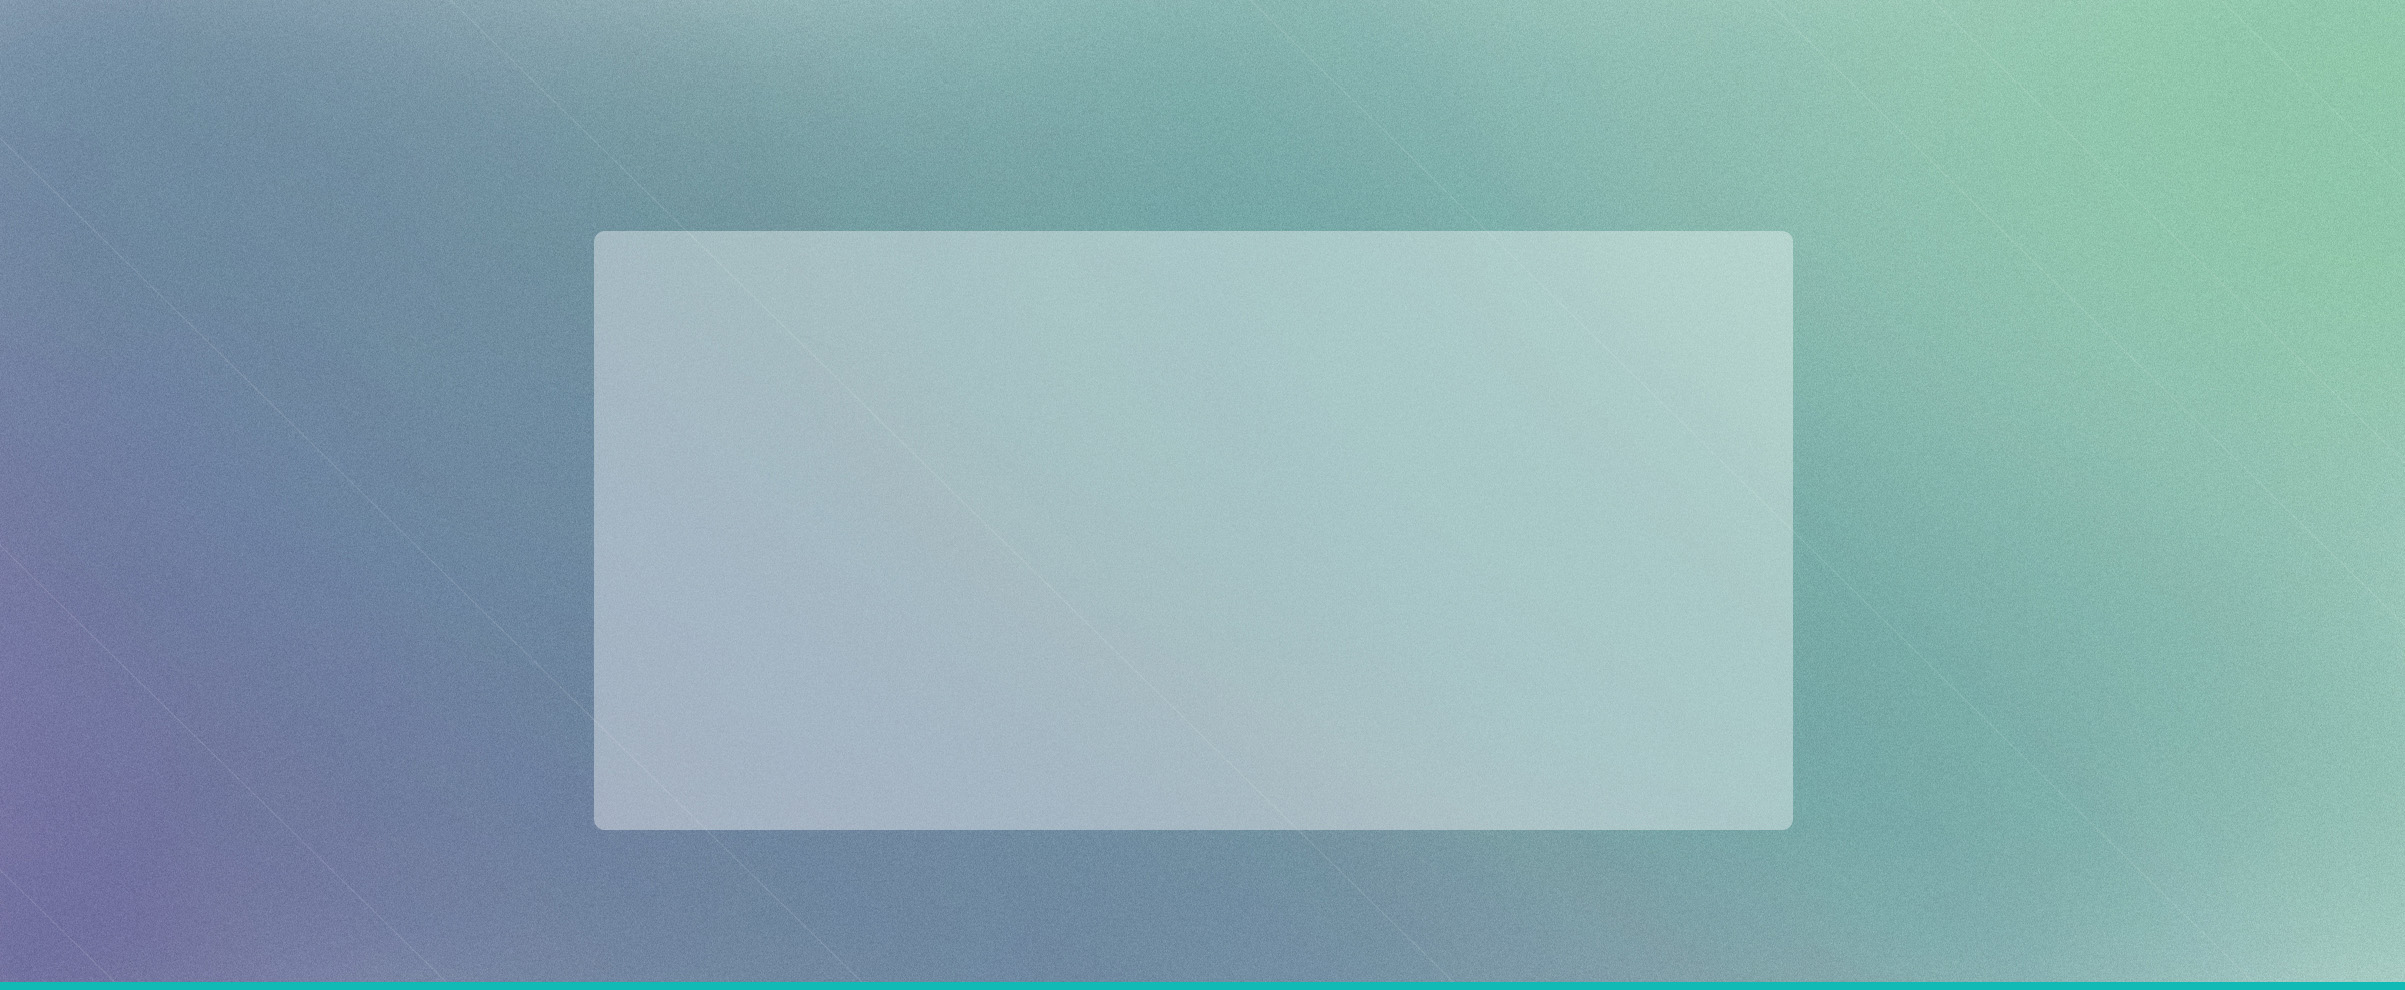
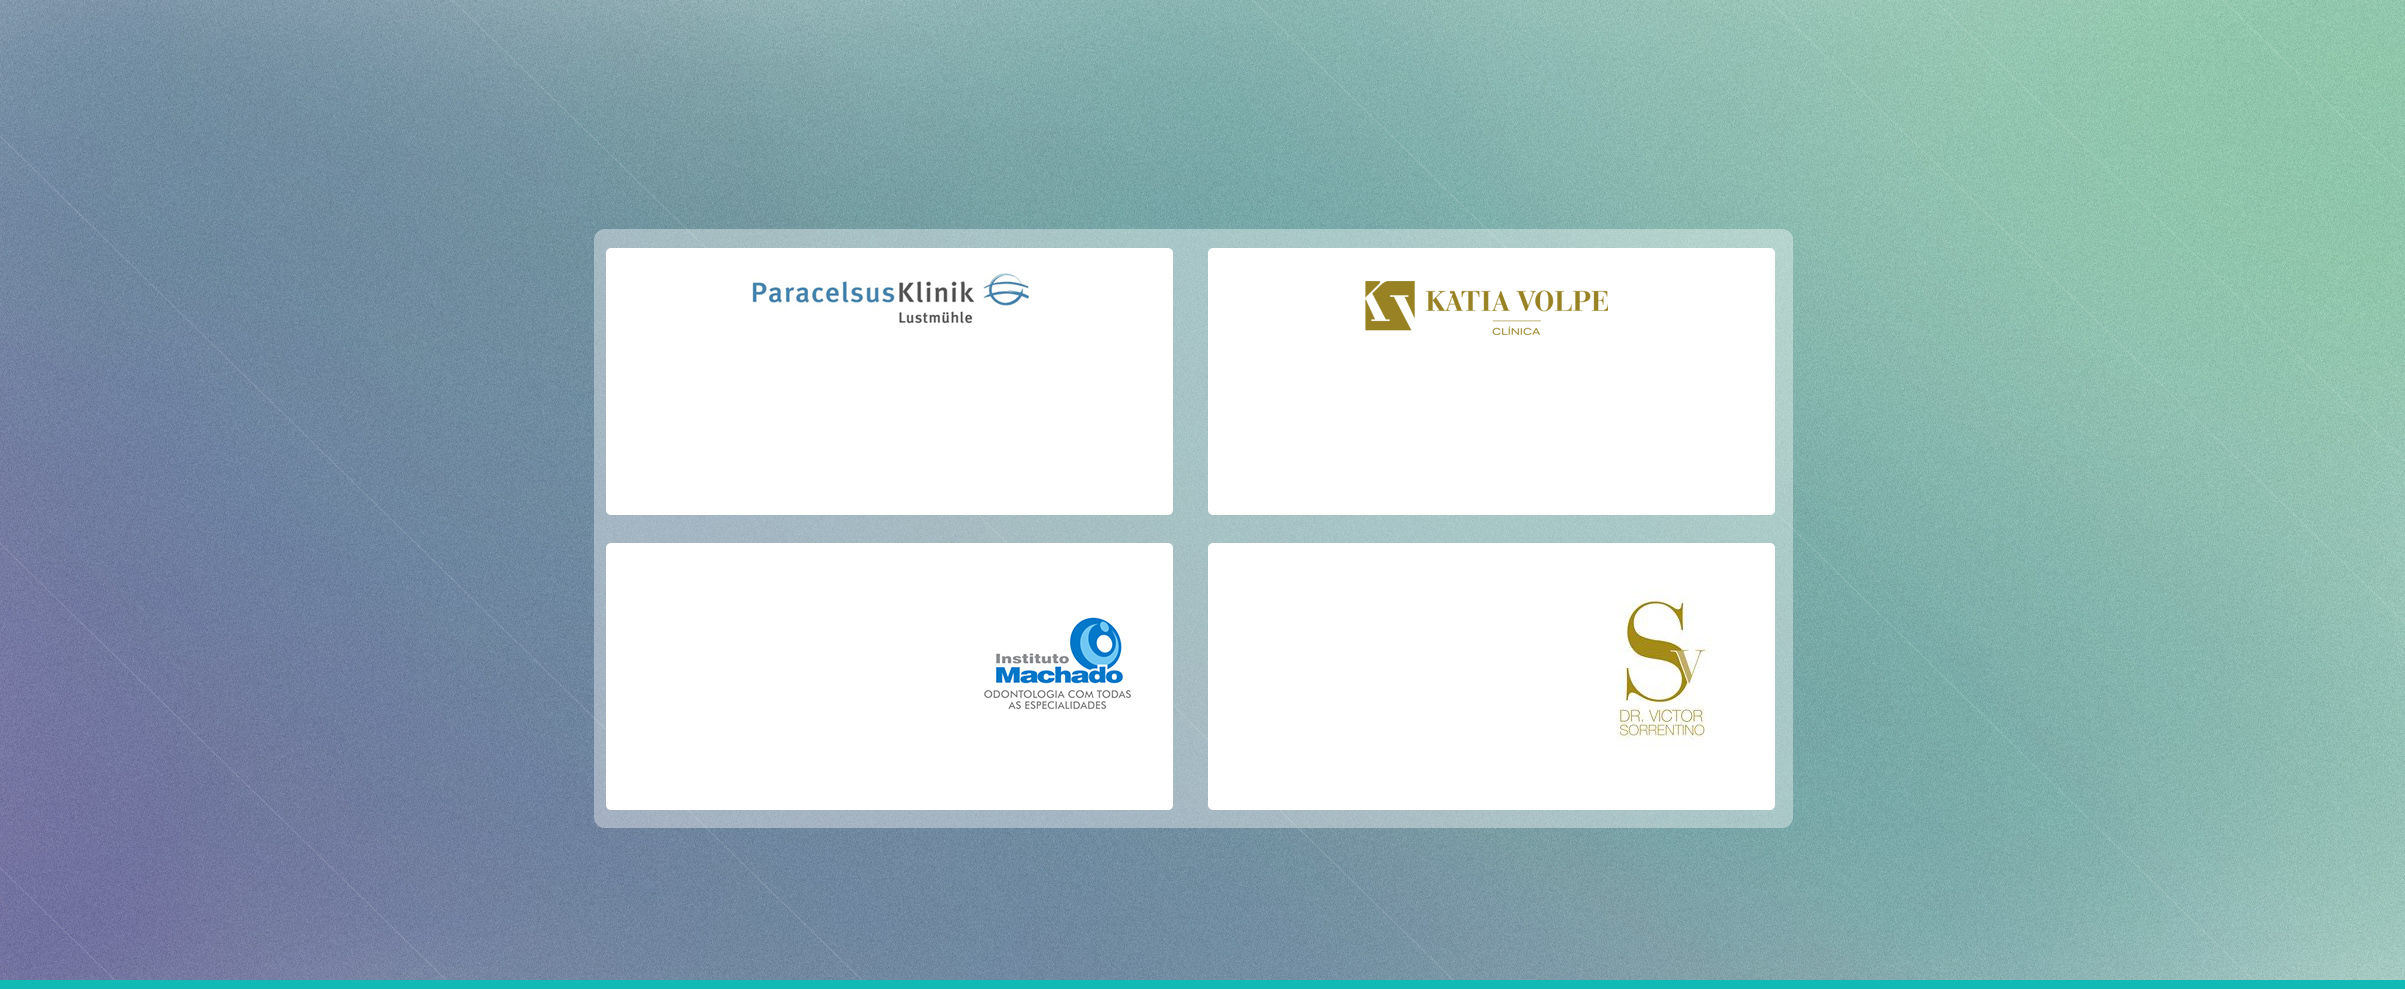
logosparceiros-footerok-arrumarparceiros ainda

diff --git a/index.html b/index.html
@@ -7,8 +7,9 @@
   <title>Instituto Alpha</title>
   <link rel="shortcut icon" href="favicon.ico">
   <link rel="stylesheet" href="css/bootstrap.min.css">
-  <link rel="stylesheet" href="css/font-dincondensed.css">
   <link rel="stylesheet" href="css/jquery.fullPage.css">
+  <link rel="stylesheet" href="css/font-dincondensed.css">
+  <link rel="stylesheet" href="css/font-avenir.css">
   <link rel="stylesheet" href="css/main.css">
   <link rel="stylesheet" href="css/navbar.css">
   <link rel="stylesheet" href="css/bg.css">
@@ -41,7 +42,7 @@
       </div><!-- /.container-fluid -->
     </nav>
 
-    <section class="section active div-home">
+    <section class="section div-home">
      <div id="carousel-example-generic" class="carousel slide" data-ride="carousel">
       <ol class="carousel-indicators">
         <li data-target="#carousel-example-generic" data-slide-to="0" class="active"></li>
@@ -80,20 +81,19 @@
       Bem vindo ao Instituto Alpha<br>
       de Medicina Integrada
     </h2>
-    <p class="line1">No instituto Alpha examinamos o <span>corpo como um todo</span> e tratamos com diferentes terapias médicas.</p>
-    <p class="line2">
+    <p>No instituto Alpha examinamos o <strong>CORPO COMO UM TODO</strong> e tratamos com diferentes terapias médicas.</p>
+    <p>
       O instituto Alpha surge com uma proposta inovadora e abrangente, baseada no conceito biológico, de respeito a integridade do <br>
       biosistema humano. Tratamos cada um de forma individualizada, buscando a origem do seu desequilíbrio e a partir daí traçamos <br>
       metas que refletirão no seu equilibrio físico e mental.
     </p>
-    <h3 class="text-center line3"><a href="#">Ler mais</a></h3>
+    <h3 class="text-center"><a href="instituto.html">Ler mais</a></h3>
   </section>
 
   <section class="section fp-responsive div-especialidades text-center">
     <div class="container">
       <div class="row">
-
-        <h2 class="line1">Especialidades</h2>
+        <h2>Especialidades</h2>
         <div class="col-xs-12 col-sm-6 col-md-6 col-lg-6">
 
           <div class="media">
@@ -198,7 +198,7 @@
 
   <section class="section fp-responsive div-parceiros text-center">
     <div class="container">
-      <h2><strong>Parceiros de confiança</strong></h2>
+      <h2>Parceiros de confiança</h2>
       <p>
         O Instituto Alpha de Saúde Integral, em função da competência de seus profissionais e serviços, estabeleceu parceria técnico-científica com a Paracelsus Klinik, a clínica mais antiga de Medicina Biológica do mundo, localizada em Lustmühle, Suiça.
         <br>
@@ -213,6 +213,8 @@
         <footer>
           <div class="col-xs-12 col-sm-3 col-md-3 col-lg-3">
             <ul class="list-unstyled text-left">
+              <li class="invisible">11111</li>
+
               <li>Fique ligado nas dicas e novidades<br>
                 sobre saúde através da nossa fanpage e<br>
                 no Blog da Emília. Fique ligado!
@@ -223,27 +225,40 @@
           </div>
           <div class="col-xs-12 col-sm-3 col-md-3 col-lg-3">
             <ul class="list-unstyled text-right">
+              <li class="invisible">11111</li>
               <li><a href="#home">Home</a></li>
               <li><a href="#instituto">O Instituto</a></li>
               <li><a href="#especialidades">Especialidades</a></li>
             </ul>
 
           </div>
-          <div class="col-xs-12 col-sm-3 col-md-3 col-lg-3">
+          <div class="col-xs-12 col-sm-2 col-md-2 col-lg-2">
             <ul class="list-unstyled text-right">
+              <li class="invisible">11111</li>
               <li><a href="#profissionais">Os profissionais</a></li>
               <li><a href="#parceiros">Parceiros</a></li>
               <li><a href="#contato">Contato</a></li>
             </ul>
           </div>
-          <div class="col-xs-12 col-sm-3 col-md-3 col-lg-3">
-            <li></li>
-            <img src="images/logo_alpha.png" alt="" class="img-responsive center-block">
+          <div class="col-xs-12 col-sm-2 col-md-2 col-lg-2">
+            <ul class="list-unstyled">
+              <li><img src="images/logos_parceiros/logo1-paracelsus.jpg" alt="" class="img-responsive"></li>
+              <li><strong>Pinheiros</strong></li>
+              <li>Av. Rebouças, 3377</li>
+              <li>São Paulo (11) 3165-6777</li>
+            </ul>
+          </div>
+          <div class="col-xs-12 col-sm-2 col-md-2 col-lg-2">
+            <ul class="list-unstyled">
+              <li><img src="images/logo_alpha.png" alt="" class="img-responsive center-block"></li>
+
+            </ul>
           </div>
         </footer>
       </div>
     </div>
   </section>
+
 </div>
 <script src="js/jquery-2.1.3.min.js"></script>
 <script src="js/bootstrap.min.js"></script>

diff --git a/css/font-avenir.css b/css/font-avenir.css
@@ -1,28 +1,36 @@
 @font-face {
-  font-family: 'Conv_AvenirLTStd-Roman';
-  src: url('fonts/AvenirLTStd-Roman.eot');
-  src: local('☺'), url('fonts/AvenirLTStd-Roman.woff') format('woff'), url('fonts/AvenirLTStd-Roman.ttf') format('truetype'), url('fonts/AvenirLTStd-Roman.svg') format('svg');
+  font-family: 'Avenir-Regular';
+  src: url('../fonts/AvenirLTStd-Roman.eot');
+  src: url('../fonts/AvenirLTStd-Roman.woff') format('woff'),
+       url('../fonts/AvenirLTStd-Roman.ttf') format('truetype'),
+       url('../fonts/AvenirLTStd-Roman.svg') format('svg');
   font-weight: normal;
   font-style: normal;
 }
 @font-face {
-  font-family: 'Conv_AvenirLTStd-Medium';
-  src: url('fonts/AvenirLTStd-Medium.eot');
-  src: local('☺'), url('fonts/AvenirLTStd-Medium.woff') format('woff'), url('fonts/AvenirLTStd-Medium.ttf') format('truetype'), url('fonts/AvenirLTStd-Medium.svg') format('svg');
+  font-family: 'Avenir-Medium';
+  src: url('../fonts/AvenirLTStd-Medium.eot');
+  src: url('../fonts/AvenirLTStd-Medium.woff') format('woff'),
+       url('../fonts/AvenirLTStd-Medium.ttf') format('truetype'),
+       url('../fonts/AvenirLTStd-Medium.svg') format('svg');
   font-weight: normal;
   font-style: normal;
 }
 @font-face {
-  font-family: 'Conv_AvenirLTStd-Heavy';
-  src: url('fonts/AvenirLTStd-Heavy.eot');
-  src: local('☺'), url('fonts/AvenirLTStd-Heavy.woff') format('woff'), url('fonts/AvenirLTStd-Heavy.ttf') format('truetype'), url('fonts/AvenirLTStd-Heavy.svg') format('svg');
+  font-family: 'Avenir-Heavy';
+  src: url('../fonts/AvenirLTStd-Heavy.eot');
+  src: url('../fonts/AvenirLTStd-Heavy.woff') format('woff'),
+       url('../fonts/AvenirLTStd-Heavy.ttf') format('truetype'),
+       url('../fonts/AvenirLTStd-Heavy.svg') format('svg');
   font-weight: normal;
   font-style: normal;
 }
 @font-face {
-  font-family: 'Conv_AvenirLTStd-Black';
-  src: url('fonts/AvenirLTStd-Black.eot');
-  src: local('☺'), url('fonts/AvenirLTStd-Black.woff') format('woff'), url('fonts/AvenirLTStd-Black.ttf') format('truetype'), url('fonts/AvenirLTStd-Black.svg') format('svg');
+  font-family: 'Avenir-Black';
+  src: url('../fonts/AvenirLTStd-Black.eot');
+  src: url('../fonts/AvenirLTStd-Black.woff') format('woff'),
+       url('../fonts/AvenirLTStd-Black.ttf') format('truetype'),
+       url('../fonts/AvenirLTStd-Black.svg') format('svg');
   font-weight: normal;
   font-style: normal;
 }

diff --git a/css/bg.css b/css/bg.css
@@ -7,6 +7,7 @@
   background: url('../images/bg2.jpg') no-repeat top center;
   background-size: cover;
   background-color: white;
+  color: #7b7b7b;
 }
 .div-especialidades{
   background: url('../images/bg3.jpg') no-repeat top center;
@@ -27,30 +28,33 @@
   padding: 20px 0;
   background-color: white;
 }
-.div-instituto p, .div-instituto h2{
-  color: #7b7b7b;
+.div-instituto h2{
+  font-family: 'Avenir-Heavy';
+  margin-bottom: 5%;
 }
-.div-instituto .line1{
-  font-size: 16px;
-}
-.div-instituto .line1 span{
-  text-transform: uppercase;
-}
-.div-instituto .line2{
+.div-instituto p{
   color: #9d9d9d;
-  font-size: 14px;
+  font-size: 18px;
   margin: 50px 0;
 }
-.div-instituto .line3 a, .div-instituto .line3 a:visited, .div-instituto .line3 a:hover{
+.div-instituto h3 a, .div-instituto h3 a:visited, .div-instituto h3 a:hover{
   color: #10bab4;
+  font-family: 'Avenir-Medium';
+  font-weight: bold;
+  font-size: 26px;
+  padding-top: 15%;
+  display: block;
 }
+
 .div-especialidades h2{
-  padding-top: 25px;
-}
-.div-especialidades .line1{
+  font-family: 'Avenir-Heavy';
+  padding-top: 20px;
   color: white;
   text-shadow: 1px 1px 1px #eee;
-  margin: 15px 0;
+  margin: 50px 0;
+}
+.div-especialidades .media{
+  padding-top: 10%;
 }
 .div-especialidades .media-heading{
   color: white;
@@ -59,27 +63,45 @@
 .div-especialidades .media-body p{
   color: white;
 }
-.div-profissionais h2{
-  padding-top: 40px;
-}
-.div-profissionais h2, .div-profissionais p{
+
+.div-profissionais{
   color: #10AB9D;
+}
+.div-profissionais h2{
+  padding-top: 50px;
+  font-family: 'Avenir-Heavy';
+  margin: 50px 0;
 }
 .div-profissionais h2{
   text-shadow: 1px 1px 1px #00b9b4;
 }
+.div-profissionais {
+  font-size: 18px;
+}
+
 .div-parceiros {
   color: white;
 }
 .div-parceiros h2{
   padding-top: 25px;
   color: white;
+  font-family: 'Avenir-Heavy';
   text-shadow: 1px 1px 1px #eee;
 }
+.div-parceiros p{
+  font-size: 18px;
+}
+
 footer{
   height: 200px;
+}
+footer ul li{
+  color: #7b7b7b;
 }
 footer ul li a{
   text-transform: uppercase;
   color: #00b9b4;
+}
+.text-indent{
+  text-indent: -9999px;
 }

diff --git a/css/main.css b/css/main.css
@@ -2,7 +2,7 @@ html, body{
   height: 100%;
 }
 body{
-  font-family:
+  font-family: 'Avenir-Regular';
 }
 .font-title{
   font-family: 'DIN-Condensed-Bold';
